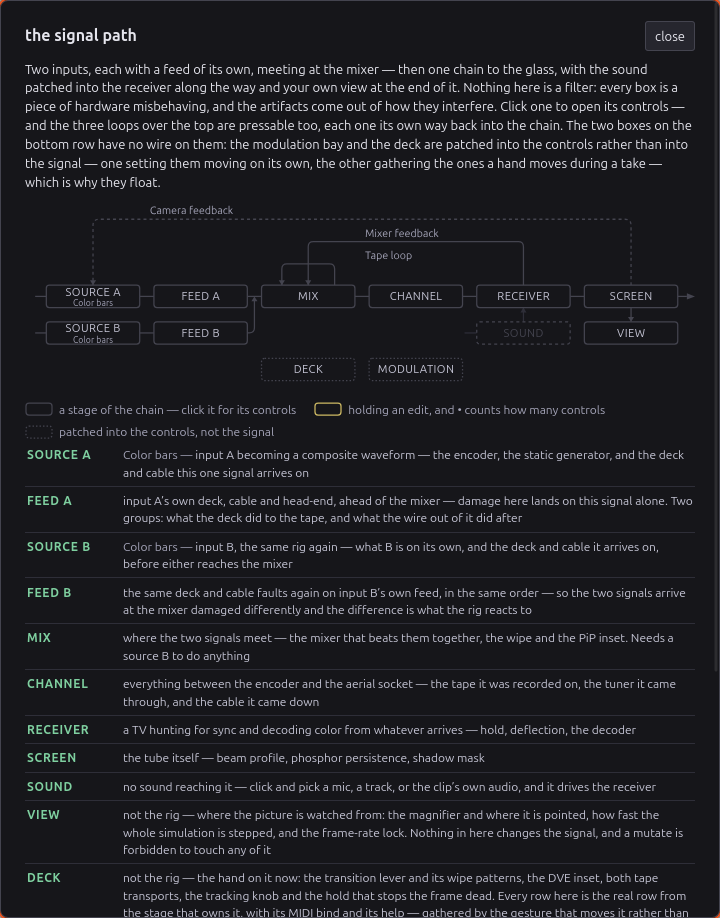
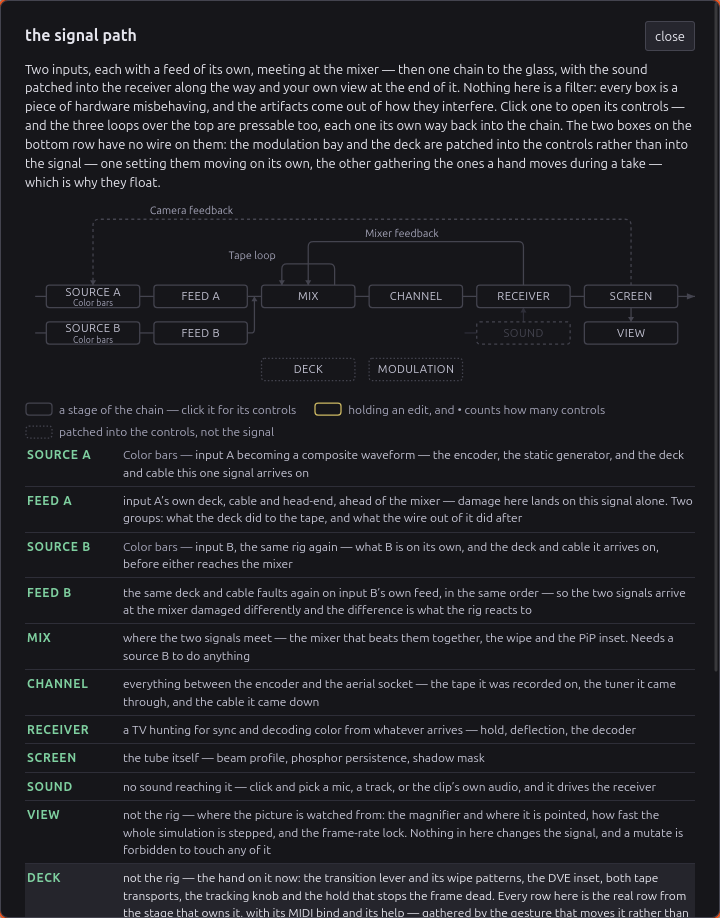
fix(ui): the tape loop's name goes on the tape loop's wire
On the diagram card, `Mixer feedback` and `Tape loop` both sat at nameX(2) —
literally the same x, 22 units apart — because both loops land on the mixer and
both took their name's position from the box they land on. Two captions in one
column over two different wires read as one two-line block, and neither wire
owned either line. The tape loop's was also 30 units past the right end of the
52-unit run it names.

Its name now hangs off the left end of its own straddle. The file already
claimed this was handled — "they no longer share one column of text, because
they no longer share one box to land on" — while two of the three did share
one. Sharing a box is exactly why they must not share a column.

Two guards, because spacing the bands was never enough on its own: no two run
labels within 20 units of the same column, and every name within reach of the
run it names. Both fail on the old placement.

The miniature needed nothing. Its three names each ride or abut their own run
already, at three distinct x — I had this drawing down as having the same fault
and it does not.

diff --git a/src/ui/diagramLayout.ts b/src/ui/diagramLayout.ts
@@ -243,16 +243,21 @@ interface LoopRun {
   to: number
   y: number
   turn: number
-  // Where the name starts: just clear of the right edge of the box the run
-  // lands on, so a name sits beside its own arrowhead rather than somewhere
-  // along a span it shares with the other two.
+  // Where the name sits, and which end of itself it sits by — so a label can
+  // hang off the left of a run as well as the right.
   lx: number
+  anchor: 'start' | 'end'
   optical: boolean
 }
-// Just past the right edge of a landing column, which is where all three names
-// begin. They no longer share one column of text, because they no longer share
-// one box to land on.
+// Just past the right edge of a landing column: where a run that reaches back
+// across the drawing puts its name, beside its own arrowhead.
 const nameX = (col: number) => colX(col) + BOX_W / 2 + 10
+
+// How far past the mixer's own edges the tape loop's two ends sit. It leaves
+// the bus and returns to it at the same node, so it straddles that box rather
+// than landing on it twice — a machine patched across one point, which is what
+// a tape loop is.
+const STRADDLE = 26
 const LOOP_RUN: Record<(typeof LOOP_STAGES)[number]['loop'], LoopRun> = {
   // The one run that reaches back past the decoder: it shoots the glass, so it
   // taps after the Screen, and what it returns is a picture rather than a
@@ -266,6 +271,7 @@ const LOOP_RUN: Record<(typeof LOOP_STAGES)[number]['loop'], LoopRun> = {
     y: 16,
     turn: 6,
     lx: nameX(0),
+    anchor: 'start',
     optical: true,
   },
   // Off the bus and back onto it one pass later, so it taps at the Receiver —
@@ -276,17 +282,30 @@ const LOOP_RUN: Record<(typeof LOOP_STAGES)[number]['loop'], LoopRun> = {
     y: 38,
     turn: 5,
     lx: nameX(2),
+    anchor: 'start',
     optical: false,
   },
   // Both ends on the mixer's own box top, wide enough to clear the mixer loop's
   // single arrowhead at its centre — so three verticals on one box top still
   // read as a pair and a single.
+  //
+  // Its name goes off the *left* end of that straddle, and the side is the
+  // whole point. It used to start at nameX(2) like the mixer's: 30 units past
+  // the right end of the run it names, and at the identical x, 22 units under
+  // another loop's name. Two captions in one column over two different wires
+  // read as one two-line block, and neither wire owned either line.
+  //
+  // The miniature had this right — its three names each ride or abut their own
+  // run — and this drawing said it did ("they no longer share one column of
+  // text") while both of these landed on col 2, because both loops land on the
+  // mixer. Sharing a box is exactly why they must not share a column.
   tape: {
-    from: colX(2) + 26,
-    to: colX(2) - 26,
+    from: colX(2) + STRADDLE,
+    to: colX(2) - STRADDLE,
     y: 60,
     turn: 5,
-    lx: nameX(2),
+    lx: colX(2) - STRADDLE - 6,
+    anchor: 'end',
     optical: false,
   },
 }

diff --git a/src/ui/diagramLayout.test.ts b/src/ui/diagramLayout.test.ts
@@ -235,4 +235,27 @@ describe('the diagram card stays inside its own drawing', () => {
     for (let i = 1; i < ys.length; i++)
       expect(ys[i] - ys[i - 1]).toBeGreaterThanOrEqual(22)
   })
+
+  // Spacing the bands is only half of it. Two names at the same x on adjacent
+  // bands read as one two-line caption however far apart the wires are, and
+  // that is what the mixer loop and the tape loop did: both land on the mixer,
+  // so both took nameX(2), and neither wire owned either line.
+  it('gives each run its own column of text', () => {
+    const xs = RETURNS.map(r => r.lx).toSorted((a, b) => a - b)
+    for (let i = 1; i < xs.length; i++)
+      expect(xs[i] - xs[i - 1], 'two run labels in one column').toBeGreaterThan(
+        20,
+      )
+  })
+
+  // And a name belongs to the wire it names: it starts (or ends) within reach
+  // of its own run rather than somewhere past the end of it. The tape loop's
+  // sat 30 units beyond the right end of a 52-unit run.
+  it('keeps each run’s name against its own run', () => {
+    for (const r of RETURNS) {
+      const [lo, hi] = [Math.min(r.from, r.to), Math.max(r.from, r.to)]
+      const reach = r.anchor === 'end' ? lo - r.lx : r.lx - hi
+      expect(reach, r.name).toBeLessThanOrEqual(12)
+    }
+  })
 })

diff --git a/src/ui/SignalPathDialog.tsx b/src/ui/SignalPathDialog.tsx
@@ -242,7 +242,12 @@ export function SignalPathDialog(props: {
                 className={styles.arrow}
                 d={head(returnPts(r.from, r.to, r.y))}
               />
-              <text className={styles.loopLabel} x={r.lx} y={r.y - 5}>
+              <text
+                className={styles.loopLabel}
+                x={r.lx}
+                y={r.y - 5}
+                textAnchor={r.anchor}
+              >
                 {r.name}
                 {live ? ' — running' : ''}
                 {n > 0 ? ` • ${n}` : ''}
